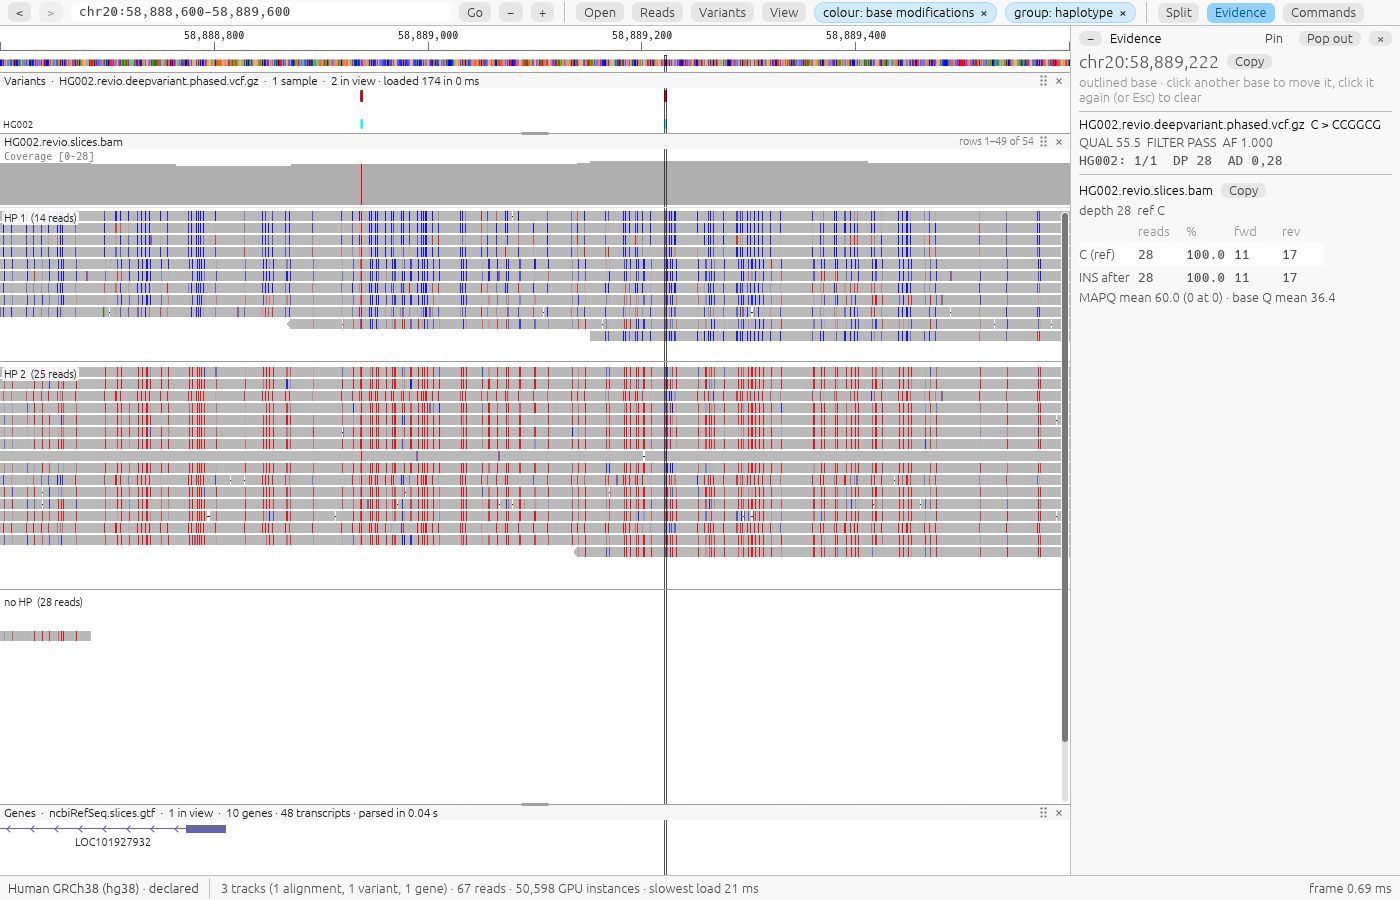
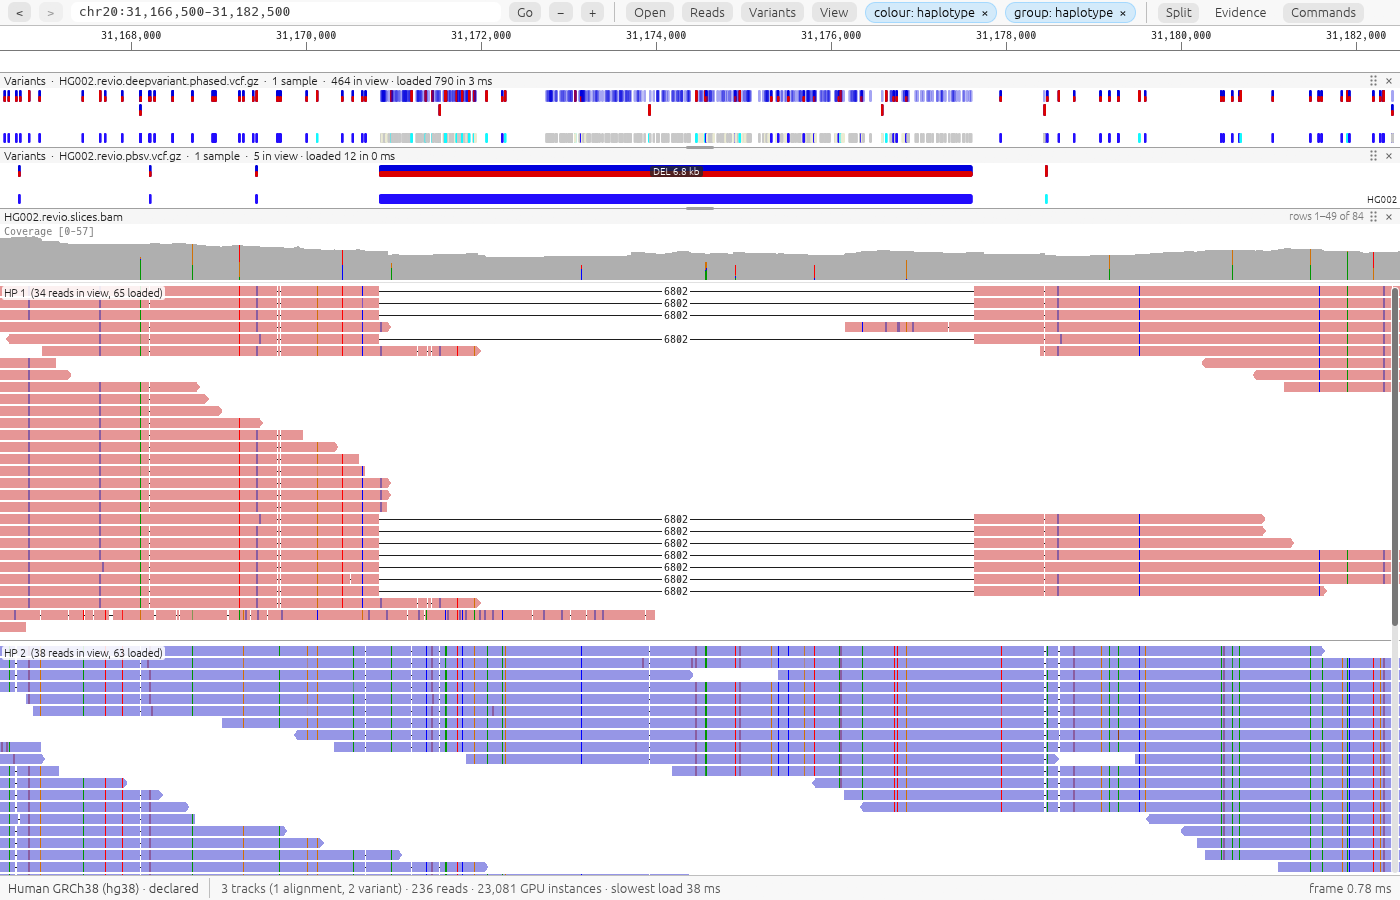
README: rewritten around the three ways to use GGV, with new pictures
The opening picture is the demo's first stop (a 6.8 kb deletion on one haplotype). Each of
the desktop app, the command line and agents gets its own section with a real example: the
Evidence panel and a headless render at one heterozygous GNAS site, the pileup row for it, and
the MCP evidence answer. Adds a one-minute demo path, `ggv index`, and tables for formats,
tools and guides.

diff --git a/README.md b/README.md
@@ -1,28 +1,45 @@
 # GGV: Graphic Genome Viewer
 
-A fast genome viewer for people and AI agents. Look at your reads, variants and genes in a
-desktop app, ask the same questions from the command line, or let an agent ask them over the
-Model Context Protocol (MCP), and get the same numbers every way.
+**A fast genome viewer for people and AI agents.** Look at reads, variants and genes in a
+desktop app, ask the same questions from the command line, or let an agent ask them. Every
+route gives the same numbers.
 
-![GGV showing allele-specific methylation at the imprinted GNAS locus: HG002 long reads grouped by haplotype and coloured by base modification, with variants, genes and the Evidence panel](https://raw.githubusercontent.com/DylanCosto/ggv/main/docs/images/ggv-desktop.png)
+[![Latest release](https://img.shields.io/github/v/release/DylanCosto/ggv)](https://github.com/DylanCosto/ggv/releases/latest)
+[![CI](https://github.com/DylanCosto/ggv/actions/workflows/ci.yml/badge.svg)](https://github.com/DylanCosto/ggv/actions/workflows/ci.yml)
+[![License: MIT](https://img.shields.io/github/license/DylanCosto/ggv)](https://github.com/DylanCosto/ggv/blob/main/LICENSE)
 
-- **Desktop app** (`ggv-desktop`): BAM/CRAM, VCF/BCF, gene annotations and signal tracks, about
-  half a millisecond per frame on deep data. Split views, variant review, an exact-count
-  Evidence panel at any base, methylation and haplotype views, and whole-chromosome coverage
-  from the index.
-- **Command line** (`ggv`): pileup and region summaries as TSV or JSON, headless PNG/SVG
-  snapshots, and batch reports for a list of sites.
-- **Agents** (`ggv mcp`): evidence at a base, HGVS consequences (MANE transcripts), reads,
-  phasing, structural variants, repeats and splice junctions as compact JSON. Attached to the
-  desktop app, an agent sees what you're looking at, so "is this variant real?" needs no
-  coordinates.
+[Install](#install) · [Try the demo](#try-it-in-a-minute) · [Desktop app](#desktop-app) ·
+[Command line](#command-line) · [AI agents](#ai-agents) · [Documentation](#documentation)
 
-GGV 0.9 is a **beta for local files**. Please [report bugs](https://github.com/DylanCosto/ggv/issues/new?template=bug_report.yml)
-with the diagnostics from **Commands → About GGV**.
+![GGV showing a heterozygous 6.8 kb deletion in HG002 long reads, grouped and coloured by haplotype: the reads on haplotype 1 carry the deletion and the reads on haplotype 2 span it intact](https://raw.githubusercontent.com/DylanCosto/ggv/main/docs/images/ggv-desktop.png)
+
+*A heterozygous 6.8 kb deletion in PacBio HiFi reads of HG002, grouped by haplotype: the reads
+that carry it are all on haplotype 1. This is the first stop of the built-in demo.*
+
+## What you get
+
+| Part | What it does |
+|---|---|
+| **Desktop app** | `ggv-desktop` opens BAM/CRAM, VCF/BCF, gene annotations and signal tracks. Frames take about a millisecond, so panning and zooming stay smooth on deep data. |
+| **Command line** | `ggv` answers "what's at this base?" as TSV or JSON, draws PNG and SVG pictures without a display, and writes a report for every site in a list. |
+| **AI agents** | `ggv mcp` serves the same answers over the Model Context Protocol. Attached to the desktop app, an agent sees what you are looking at. |
+
+GGV 0.9 is a **beta for local files**. It shows and counts what is in your files; it is not a
+variant caller.
+
+## Try it in a minute
+
+1. [Install GGV](#install).
+2. Run `ggv-desktop --demo`, or start the app and press **Open the demo**.
+
+The demo downloads 4.3 MB of real long-read data once (PacBio HiFi reads of GIAB HG002) and
+walks you through six stops: a deletion on one haplotype, exact counts at a base, methylation,
+variant review, the command palette and agents, then how to open your own files.
 
 ## Install
 
-Download the package for your system from [Releases](https://github.com/DylanCosto/ggv/releases):
+Download the package for your system from
+[Releases](https://github.com/DylanCosto/ggv/releases/latest):
 
 | System | Package | Needs |
 |---|---|---|
@@ -30,71 +47,159 @@ Download the package for your system from [Releases](https://github.com/DylanCos
 | Linux (x86_64) | `ggv-<version>-linux-x86_64.tar.gz` | glibc 2.35+ (Ubuntu 22.04, Debian 12, Fedora 36 or newer), Vulkan or OpenGL |
 | macOS 11+ (Apple silicon and Intel) | `ggv-<version>-macos-universal.zip` | nothing else |
 
-Unzip it, then run the installer in that folder. Nothing needs administrator rights.
+Unpack it, then run the installer in that folder. Nothing needs administrator rights.
 
 ```sh
 powershell -ExecutionPolicy Bypass -File install.ps1   # Windows
 ./install.sh                                            # Linux and macOS
 ```
 
-Unsigned builds trigger a warning the first time: on Windows choose **More info → Run anyway**;
-on macOS `install.sh` clears the quarantine for you. Details, uninstalling and checking
-downloads: [docs/install.md](https://github.com/DylanCosto/ggv/blob/main/docs/install.md).
+The builds are unsigned, so there is a warning the first time. On Windows choose
+**More info → Run anyway**; on macOS `install.sh` clears the quarantine for you.
+[docs/install.md](https://github.com/DylanCosto/ggv/blob/main/docs/install.md) covers
+uninstalling and checking downloads.
 
-## Quick start
-
-Try it on real data first: **Open the demo** on the start screen (or `ggv-desktop --demo`)
-downloads 4.3 MB of PacBio HiFi reads of GIAB HG002 once and gives a six-step tour.
+## Desktop app
 
 ```sh
-# Desktop: BAMs, variants and genes; the last argument is a locus or a gene name
-ggv-desktop tumor.bam normal.bam calls.vcf.gz genes.gtf.gz BRCA1 -f GRCh38.fa
 ggv-desktop sample.bam chr17:43,044,806 --genome hg38     # built-in reference and genes
-
-# Command line
-ggv query pileup  sample.bam chr7:55,191,822 -f ref.fa --format json
-ggv query summary sample.bam chr7:55191000-55192000 -f ref.fa
-ggv render sample.bam chr7:55,191,822 -f ref.fa -o snv.png
-ggv batch sites.bed -b tumor.bam -b normal.bam -f ref.fa -v calls.vcf.gz -o review/
+ggv-desktop tumor.bam normal.bam calls.vcf.gz genes.gtf.gz BRCA1 -f GRCh38.fa
 ```
 
-**Agents.** Add GGV to an MCP client with your files as defaults:
+Give it files in any order; a last argument that isn't a file is a locus or a gene name. Or
+start it empty and drag files onto the window.
+
+**Exact counts at any base.** Click a base and the Evidence panel counts every read there by
+allele and strand, with the VCF record and what the change does to the gene.
+
+![The Evidence panel at a heterozygous variant in GNAS: 10 reads with C and 15 with T, by strand, with the HGVS consequence c.393C>T p.Ile131=, and the gene track showing the amino acids](https://raw.githubusercontent.com/DylanCosto/ggv/main/docs/images/evidence.png)
+
+**Methylation on each haplotype.** Colour by base modification and group by haplotype to see
+imprinting directly: here one copy of GNAS is mostly unmethylated (blue) and the other mostly
+methylated (red).
+
+![Reads at the imprinted GNAS locus coloured by base modification and grouped by haplotype: haplotype 1 is mostly blue (unmethylated), haplotype 2 mostly red (methylated)](https://raw.githubusercontent.com/DylanCosto/ggv/main/docs/images/methylation.png)
+
+**And more:**
+
+- **Reads your way:** sort, group and colour by strand, haplotype, read group or any tag;
+  filter with expressions such as `mapq >= 20 && hp == 1 && !dup`.
+- **Review variants:** step through a VCF and mark each site real, artifact or unsure. Your
+  decisions are saved beside the file as you go.
+- **Two places at once:** split the window to see both ends of a rearrangement, or two genes,
+  side by side.
+- **Find anything:** Ctrl+K searches every command, gene, bookmark and recent file. `?` lists
+  the keyboard shortcuts.
+- **Whole chromosomes:** zoomed all the way out, depth is estimated from the index without
+  reading the reads.
+
+[docs/desktop.md](https://github.com/DylanCosto/ggv/blob/main/docs/desktop.md) has the rest:
+splicing, structural variants, signal tracks, sessions and reports.
+
+## Command line
+
+```sh
+ggv query pileup  sample.bam chr7:55,191,822 -f ref.fa         # one base
+ggv query summary sample.bam chr7:55191000-55192000 -f ref.fa  # a region
+ggv render sample.bam chr7:55,191,822 -f ref.fa -o snv.png     # a picture, no display needed
+ggv batch sites.bed -b tumor.bam -b normal.bam -f ref.fa -v calls.vcf.gz -o review/
+ggv index sample.bam                                           # build a missing index
+```
+
+`query pileup` at one base gives depth and alleles, here 10 reads with C and 15 with T (some
+columns left out):
+
+```text
+#contig  pos       ref  depth  A  C   G  T   N  del  ins  ...  alt_fraction  top_alt
+chr20    58903752  C    25     0  10  0  15  0  0    0    ...  0.6           T:15
+```
+
+`render --sort base` draws the same site as the app would:
+
+![A headless render of the same heterozygous site: coverage with the alternate allele in colour, and 25 reads sorted so the 15 carrying T are on top](https://raw.githubusercontent.com/DylanCosto/ggv/main/docs/images/render.png)
+
+`batch` writes a picture and an HTML evidence report for every site in a BED, VCF or list of
+loci, with a contact sheet linking them. Add `--format json` to any query for scripts.
+[docs/cli.md](https://github.com/DylanCosto/ggv/blob/main/docs/cli.md) has every option.
+
+## AI agents
+
+Add GGV to an MCP client with your files as the defaults:
 
 ```sh
 claude mcp add ggv -- ggv mcp -b tumor.bam -b normal.bam -f GRCh38.fa -v calls.vcf.gz -g genes.gtf.gz
 ```
 
-or attach it to the desktop app, so calls use whatever is on screen:
+Or attach it to the desktop app, so calls use whatever is on screen and "is this variant
+real?" needs no coordinates:
 
 ```sh
 claude mcp add ggv -- ggv mcp --attach
 ```
 
+For clients configured with JSON:
+
 ```json
 {"mcpServers": {"ggv": {"command": "ggv", "args": ["mcp", "--attach"]}}}
 ```
 
+Agents get numbers, not pictures. This is the `evidence` answer for the site above, abridged:
+
+```json
+{
+  "locus": "chr20:58903752", "ref": "C", "depth": 25,
+  "alleles": [
+    {"allele": "C", "reads": 10, "forward": 4, "reverse": 6,  "fraction": 0.4, "reference": true},
+    {"allele": "T", "reads": 15, "forward": 2, "reverse": 13, "fraction": 0.6}
+  ],
+  "genes": [{"gene": "GNAS", "transcript": "NM_000516.7", "hgvs_c": "c.393C>T",
+             "hgvs_p": "p.Ile131=", "effect": "synonymous", "where": "exon 5/13"}],
+  "warnings": []
+}
+```
+
+| Tool | Answers |
+|---|---|
+| `evidence` | reads per allele and strand at a base, artifact warnings, the VCF record, the HGVS consequence |
+| `reads`, `summarize`, `coverage` | reads grouped by allele, strand or haplotype; region statistics; depth |
+| `variants`, `genes`, `consequence` | VCF records, transcripts, and what any change does to a gene |
+| `phase`, `svs`, `repeats`, `junctions` | haplotypes from the reads, structural variants, repeat lengths, splicing |
+| `compare`, `signal`, `render` | where two files differ (tumor against normal), signal tracks, and a picture when one helps |
+
+Attached to the app, an agent can also move the view, change the display, add bookmarks and
+overlays, and wait for you to click a base.
+[docs/mcp.md](https://github.com/DylanCosto/ggv/blob/main/docs/mcp.md) lists every tool.
+
 ## What it reads
 
-- **Alignments:** BAM and CRAM, indexed (GGV offers to build a missing index).
-- **Variants:** VCF and BCF, bgzipped and indexed.
-- **Annotations:** GTF, GFF3 and BED, plain or gzipped.
-- **References:** indexed FASTA (plain or bgzipped) and 2bit.
-- **Signals:** bigWig, bedGraph and SEG.
-- **Built-in genomes,** downloaded on first use: hg38, hg19, T2T (hs1), mm39, mm10, sacCer3,
-  with RefSeq genes and ClinVar where available.
+| Kind | Formats |
+|---|---|
+| Alignments | BAM and CRAM, indexed |
+| Variants | VCF and BCF, bgzipped and indexed |
+| Annotations | GTF, GFF3 and BED, plain or gzipped |
+| References | indexed FASTA (plain or bgzipped) and 2bit |
+| Signals | bigWig, bedGraph and SEG |
+
+A file without an index is no obstacle: the app offers to build it, and `ggv index` does the
+same from a terminal.
+
+**Built-in genomes** save you finding a reference. `--genome hg38` downloads the sequence and
+RefSeq genes once (877 MB for hg38) and keeps them. Also available: hg19, T2T (hs1), mm39,
+mm10 and sacCer3, with ClinVar and other tracks for hg38 and hg19.
+See [docs/genomes.md](https://github.com/DylanCosto/ggv/blob/main/docs/genomes.md).
 
 **Not yet:** remote files (HTTPS, S3), cancelling a slow load, CRAM with a 2bit reference.
-GGV shows and counts what's in your files; it isn't a variant caller.
 
 ## Documentation
 
-- [Desktop app](https://github.com/DylanCosto/ggv/blob/main/docs/desktop.md): reading alignments, variants, review, splicing, signal tracks, keyboard shortcuts
-- [Command line](https://github.com/DylanCosto/ggv/blob/main/docs/cli.md): queries, rendering and batch reports
-- [Agents (MCP)](https://github.com/DylanCosto/ggv/blob/main/docs/mcp.md): every tool, and working attached to the desktop app
-- [Genomes](https://github.com/DylanCosto/ggv/blob/main/docs/genomes.md): built-in references and tracks
-- [Install](https://github.com/DylanCosto/ggv/blob/main/docs/install.md): packages, installers and first run
-- [Development](https://github.com/DylanCosto/ggv/blob/main/docs/development.md): crates, correctness checks and building
+| Guide | Covers |
+|---|---|
+| [Desktop app](https://github.com/DylanCosto/ggv/blob/main/docs/desktop.md) | reading alignments, variants, review, splicing, signal tracks, keyboard shortcuts |
+| [Command line](https://github.com/DylanCosto/ggv/blob/main/docs/cli.md) | queries, rendering and batch reports |
+| [Agents (MCP)](https://github.com/DylanCosto/ggv/blob/main/docs/mcp.md) | every tool, and working attached to the desktop app |
+| [Genomes](https://github.com/DylanCosto/ggv/blob/main/docs/genomes.md) | built-in references and tracks |
+| [Install](https://github.com/DylanCosto/ggv/blob/main/docs/install.md) | packages, installers and first run |
+| [Development](https://github.com/DylanCosto/ggv/blob/main/docs/development.md) | crates, correctness checks and building |
 
 ## Build from source
 
@@ -106,10 +211,17 @@ cargo build --release -p ggv-cli -p ggv-desktop
 
 The binaries are `target/release/ggv` and `target/release/ggv-desktop`. To package as a
 release does, see `scripts/windows`, `scripts/linux` and `scripts/macos`. GGV reads files
-through [pasta](https://github.com/DylanCosto/pasta), a pure-Rust library for SAM/BAM/CRAM/VCF/FASTA.
+through [pasta](https://github.com/DylanCosto/pasta), a pure-Rust library for
+SAM/BAM/CRAM/VCF/FASTA.
+
+## Feedback
+
+Found a bug? [Report it](https://github.com/DylanCosto/ggv/issues/new?template=bug_report.yml)
+with the diagnostics from **Commands → About GGV**.
 
 ## License
 
-MIT; see [LICENSE](https://github.com/DylanCosto/ggv/blob/main/LICENSE). Bundled open-source components are listed in
-[THIRD_PARTY_NOTICES.md](https://github.com/DylanCosto/ggv/blob/main/THIRD_PARTY_NOTICES.md), including the MANE transcript list
-(NCBI/EMBL-EBI, public domain).
+MIT; see [LICENSE](https://github.com/DylanCosto/ggv/blob/main/LICENSE). Bundled open-source
+components are listed in
+[THIRD_PARTY_NOTICES.md](https://github.com/DylanCosto/ggv/blob/main/THIRD_PARTY_NOTICES.md),
+including the MANE transcript list (NCBI/EMBL-EBI, public domain).
